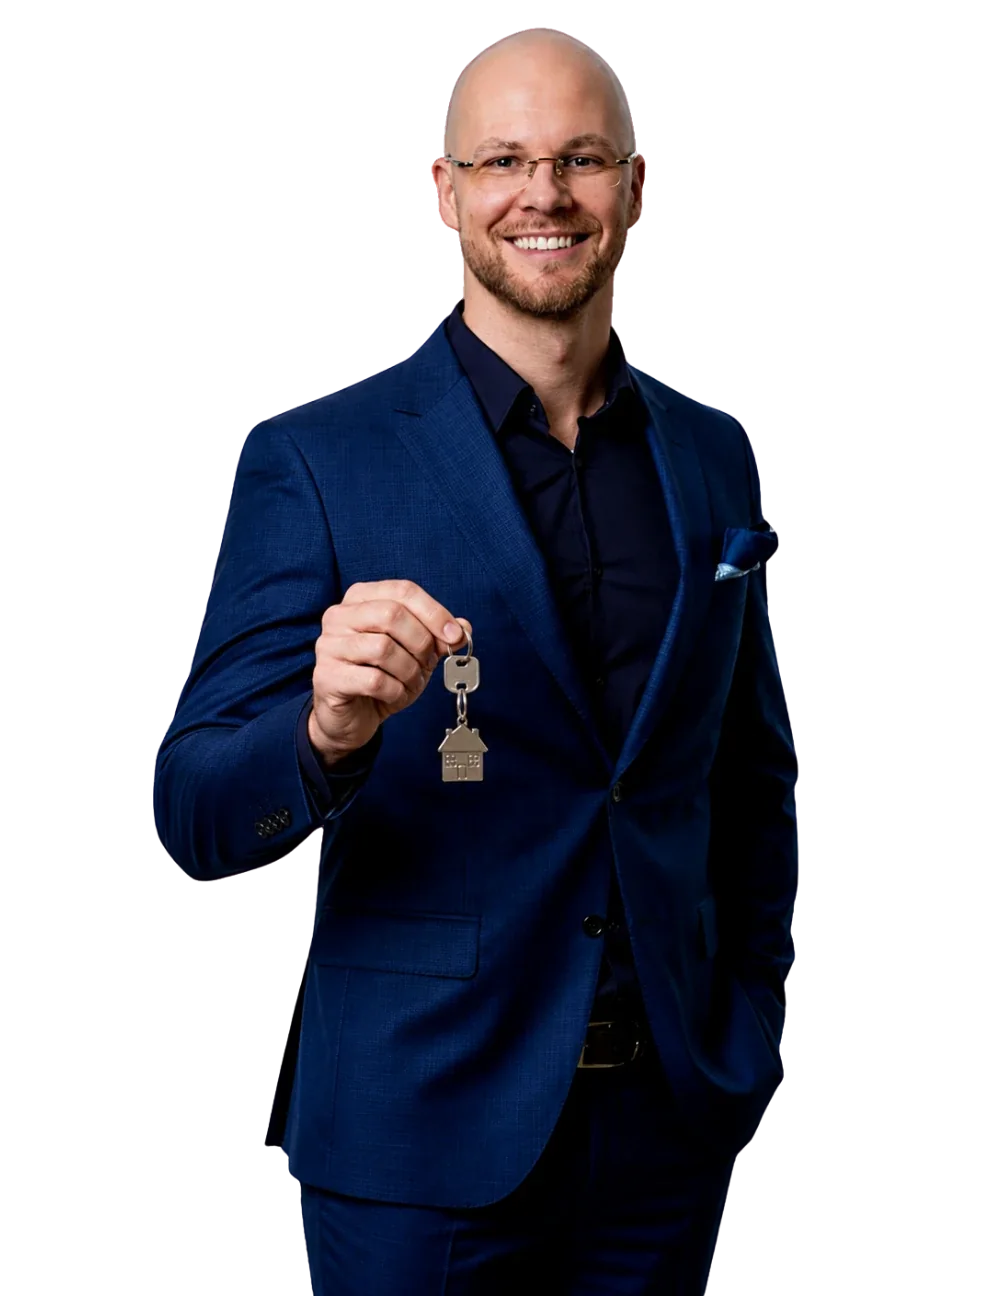
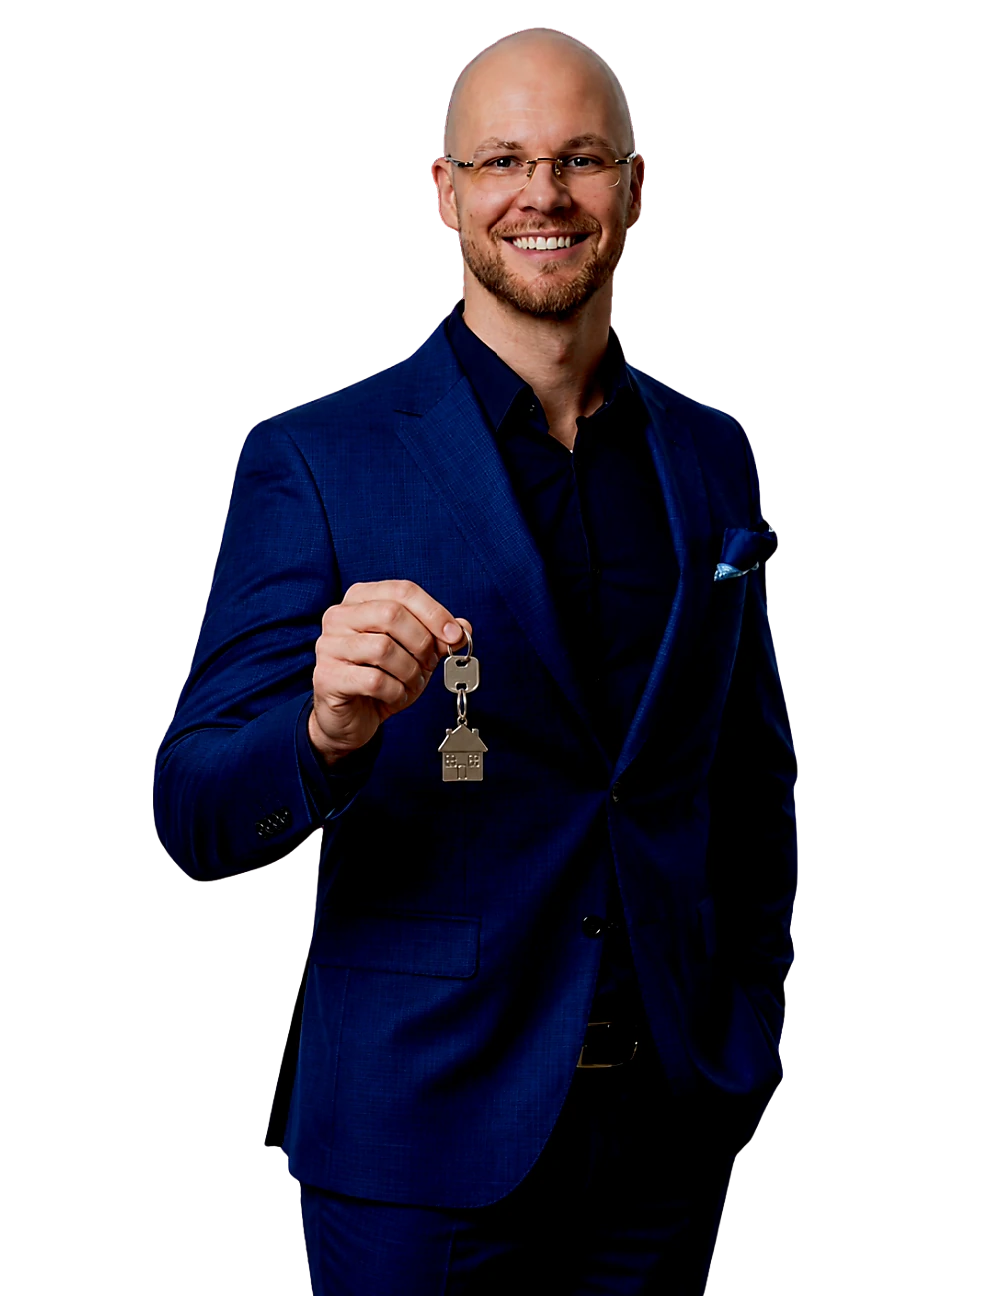
Hero (dark/blue theme): new blue-suit portrait
Claude-Session: https://claude.ai/code/session_015wcwscw3SeVyh6NP6weuPp

Changed region(s): [[0.4366, 0.0309, 0.6549, 0.3395], [0.2807, 0.4321, 0.499, 0.6173], [0.7173, 0.4321, 0.7485, 0.463]]

diff --git a/index.html b/index.html
@@ -88,7 +88,7 @@
       </div>
     </div>
     <div class="hero-photo">
-      <img src="assets/hero-blauer-modus-blauer-anzug.webp" alt="Jim-Rico Krüger, Immobilienberater in Berlin" width="995" height="1296" class="logo-light">
+      <img src="assets/hero-blauer-modus-blauer-anzug.webp?v=2" alt="Jim-Rico Krüger, Immobilienberater in Berlin" width="995" height="1296" class="logo-light">
       <img src="assets/hero-heller-modus-schwarzer-anzug.webp" alt="Jim-Rico Krüger, Immobilienberater in Berlin" width="995" height="1296" class="logo-dark">
     </div>
     <div class="trust-badges" data-hero-in>
